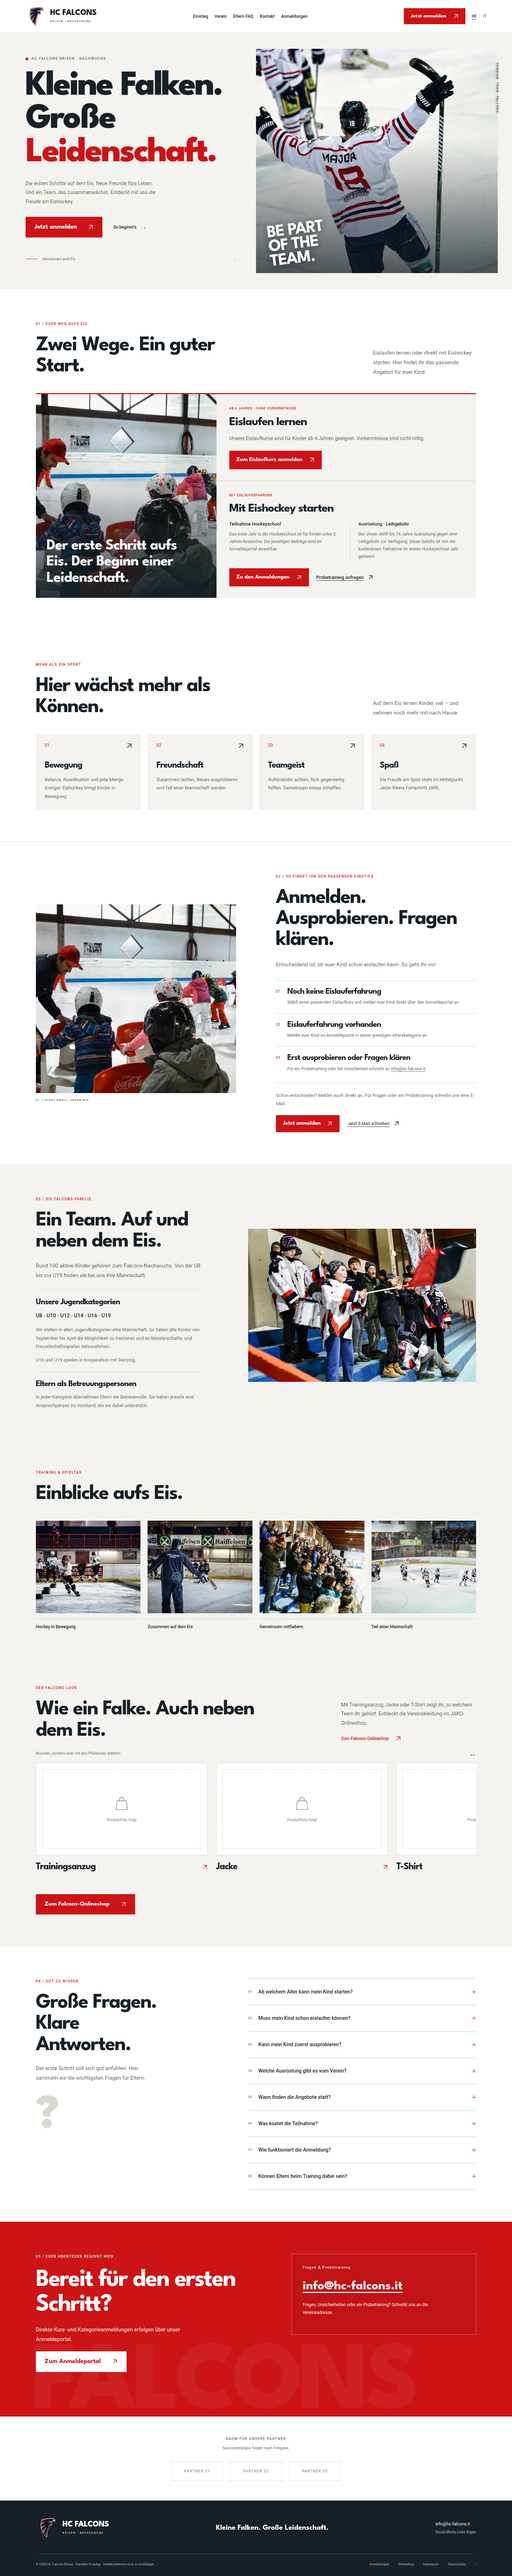
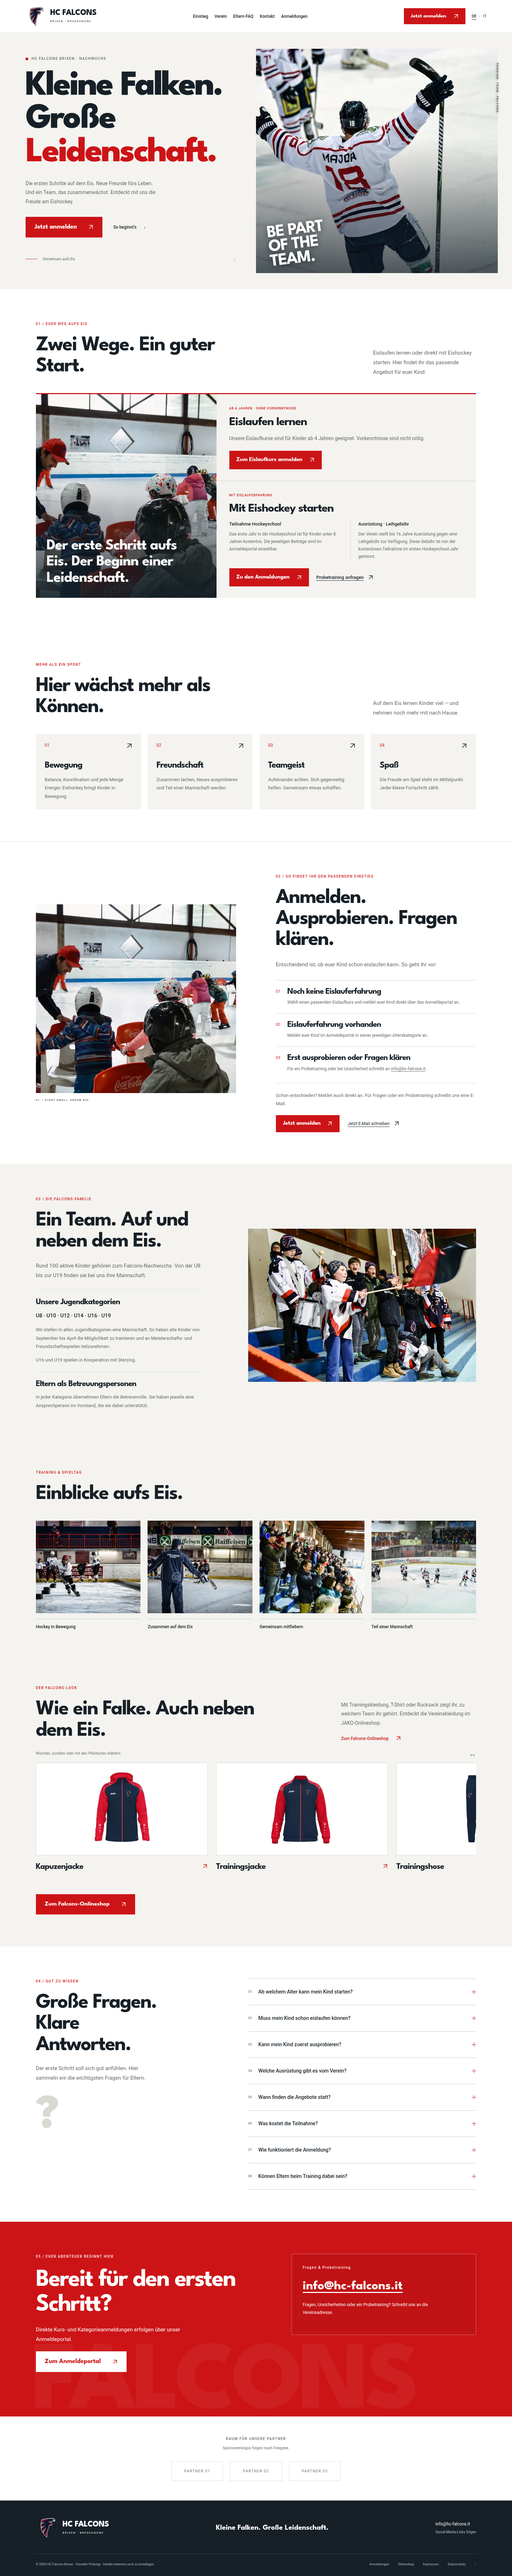
Replace shop placeholders with eleven linked original product photos

Changed region(s): [[0.5312, 0.6872, 0.6562, 0.7185], [0.1875, 0.6872, 0.3125, 0.7185], [0.9062, 0.6872, 0.9375, 0.7185]]

diff --git a/src/components/styles.css b/src/components/styles.css
@@ -37,3 +37,6 @@
 .offer-feature{display:grid;grid-template-columns:minmax(0,.82fr) minmax(0,1.18fr);background:var(--paper);overflow:hidden;border-top:3px solid var(--red)}.offer-feature-visual{position:relative;min-width:0;min-height:100%;isolation:isolate}.offer-feature-photo{position:absolute;inset:0;height:100%;min-height:0}.offer-feature-photo img{object-position:40% center}.offer-feature-visual:after{content:'';position:absolute;inset:40% 0 0;background:linear-gradient(transparent,#142027e6);z-index:1;pointer-events:none}.offer-photo-caption{position:absolute;z-index:2;bottom:32px;left:30px;right:30px;margin:0;color:#fff;font:700 clamp(27px,3vw,42px)/1.08 'League Spartan',sans-serif;letter-spacing:-.025em;max-width:370px}.offer-feature .offer-grid{display:flex;flex-direction:column;gap:0;min-width:0}.offer-feature .offer-card{background:transparent;border:0;padding:32px 36px;min-width:0}.offer-feature .hockey-offer{border-top:1px solid #d1d5ce}.offer-feature .offer-badge{margin-bottom:13px;font-size:9px}.offer-feature .offer-card h3{font-size:34px;margin-bottom:16px}.offer-feature .offer-card>p:not(.offer-badge){margin-bottom:0}.offer-feature .offer-actions{margin-top:22px;gap:20px}.offer-feature .offer-actions .button{padding:16px 20px;font-size:16px}.offer-feature .offer-costs{display:grid;grid-template-columns:1fr 1fr;gap:22px;margin:5px 0 0}.offer-feature .offer-costs>div{border-top:0;padding:0}.offer-feature .offer-costs>div+div{border-left:1px solid #d1d5ce;padding-left:22px}.offer-feature .offer-costs dt{line-height:1.5}.offer-feature .offer-costs dd{font-size:12px;line-height:1.75}
 @media(max-width:1050px){.offer-feature{grid-template-columns:minmax(0,.75fr) minmax(0,1.25fr)}.offer-feature .offer-card{padding:28px}.offer-feature .offer-card h3{font-size:31px}.offer-feature .offer-costs{gap:16px}.offer-feature .offer-costs>div+div{padding-left:16px}}
 @media(max-width:760px){.offer-feature{grid-template-columns:1fr}.offer-feature-visual{min-height:0;height:300px}.offer-feature-photo img{object-position:center 55%}.offer-photo-caption{left:25px;bottom:24px;right:25px;font-size:32px;max-width:300px}.offer-feature .offer-card{padding:28px 24px}.offer-feature .offer-card h3{font-size:32px}.offer-feature .offer-costs{grid-template-columns:1fr;gap:18px}.offer-feature .offer-costs>div+div{border-left:0;border-top:1px solid #d1d5ce;padding:18px 0 0}.offer-feature .offer-actions{gap:22px}.offer-feature .offer-actions .button{font-size:16px;max-width:100%}}
+/* Supplied product photos share one stage; wide white canvases use a centered crop. */
+.shop-product-image>img{width:260px;max-width:100%;height:100%;padding:15px;object-fit:contain}.shop-product-image>img.shop-wide-image{object-fit:cover}.shop-item-caption{align-items:start}.shop-item-caption h3{font-size:24px;line-height:1.15}.shop-item-caption .arrow-icon{margin-top:4px}
+@media(max-width:760px){.shop-product-image>img{width:230px}.shop-item-caption h3{font-size:23px}}

diff --git a/src/data/content.ts b/src/data/content.ts
@@ -5,7 +5,7 @@ export const content = {
     "description": "Eishockey entdecken beim HC Falcons Brixen. Ein Einstieg für Kinder und ihre Familien.",
     "registration": "Anmeldungen",
     "shop": "Onlineshop",
-    "shopText": "Mit Trainingsanzug, Jacke oder T-Shirt zeigt ihr, zu welchem Team ihr gehört. Entdeckt die Vereinskleidung im JAKO-Onlineshop.",
+    "shopText": "Mit Trainingskleidung, T-Shirt oder Rucksack zeigt ihr, zu welchem Team ihr gehört. Entdeckt die Vereinskleidung im JAKO-Onlineshop.",
     "shopAction": "Zum Falcons-Onlineshop",
     "nav": [
       "Einstieg",
@@ -154,13 +154,7 @@ export const content = {
     "entryActionsHint": "Schon entschieden? Meldet euch direkt an. Für Fragen oder ein Probetraining schreibt uns eine E-Mail.",
     "shopLabel": "DER FALCONS-LOOK",
     "shopTitle": "Wie ein Falke. Auch neben dem Eis.",
-    "shopScroll": "Wischen, scrollen oder mit den Pfeiltasten blättern",
-    "shopPhotoPending": "Produktfoto folgt",
-    "shopItems": [
-      "Trainingsanzug",
-      "Jacke",
-      "T-Shirt"
-    ]
+    "shopScroll": "Wischen, scrollen oder mit den Pfeiltasten blättern"
   },
   "it": {
     "lang": "it",
@@ -168,7 +162,7 @@ export const content = {
     "description": "Scoprire l’hockey con HC Falcons Brixen. Un primo passo per bambini e famiglie.",
     "registration": "Iscrizioni",
     "shop": "Shop online",
-    "shopText": "Con tuta, giacca o T-shirt mostrate di quale squadra fate parte. Scoprite l’abbigliamento del club nello shop online JAKO.",
+    "shopText": "Con abbigliamento da allenamento, T-shirt o zaino mostrate di quale squadra fate parte. Scoprite l’abbigliamento del club nello shop online JAKO.",
     "shopAction": "Allo shop online dei Falcons",
     "nav": [
       "Primi passi",
@@ -317,12 +311,6 @@ export const content = {
     "entryActionsHint": "Avete già deciso? Iscrivetevi direttamente. Per domande o un allenamento di prova, scriveteci un’e-mail.",
     "shopLabel": "IL LOOK DEI FALCONS",
     "shopTitle": "Un falco. Anche fuori dal ghiaccio.",
-    "shopScroll": "Scorri con un gesto, il mouse o i tasti freccia",
-    "shopPhotoPending": "Foto prodotto in arrivo",
-    "shopItems": [
-      "Tuta",
-      "Giacca",
-      "T-shirt"
-    ]
+    "shopScroll": "Scorri con un gesto, il mouse o i tasti freccia"
   }
 };

diff --git a/src/data/shop.ts b/src/data/shop.ts
@@ -1,4 +1,27 @@
-import type { ImageMetadata } from 'astro';
-// Use verified images from the Falcons JAKO shop only. No model names or prices
-// are inferred. Replace null with a local image import once images are available.
-export const shopImages: (ImageMetadata | null)[] = [null, null, null];
+import jacket from '../../Jacke.png';
+import trainingJacket from '../../Trainerjacke.png';
+import trousers from '../../Trainerhose.png';
+import trousersDetail from '../../Screenshot 2026-09-09 073638.png';
+import backpack from '../../Rucksack.png';
+import trainingShirt from '../../T-shirt.png';
+import shirtNavy from '../../T-shirt 2.png';
+import shirtGrey from '../../T-shirt 3.png';
+import shirtWhite from '../../T-shirt 4.png';
+import shirtGreyShield from '../../T-shirt 5.png';
+import shirtWhiteShield from '../../T-shirt 6.png';
+
+// User-supplied product photos. All previews link to the confirmed Falcons shop.
+// Labels describe the images; no model names, prices or availability are inferred.
+export const shopProducts = [
+ { image: jacket, de: 'Kapuzenjacke', it: 'Giacca con cappuccio' },
+ { image: trainingJacket, de: 'Trainingsjacke', it: 'Giacca da allenamento' },
+ { image: trousers, de: 'Trainingshose', it: 'Pantaloni da allenamento' },
+ { image: trousersDetail, de: 'Trainingshose · Detailansicht', it: 'Pantaloni da allenamento · Dettaglio' },
+ { image: backpack, de: 'Rucksack', it: 'Zaino' },
+ { image: trainingShirt, de: 'Trainingsshirt', it: 'Maglia da allenamento' },
+ { image: shirtNavy, de: 'T-Shirt · Dunkelblau', it: 'T-shirt · Blu scuro' },
+ { image: shirtGrey, de: 'T-Shirt · Grau', it: 'T-shirt · Grigia' },
+ { image: shirtWhite, de: 'T-Shirt · Weiß', it: 'T-shirt · Bianca' },
+ { image: shirtGreyShield, de: 'T-Shirt · Grau mit Wappenmotiv', it: 'T-shirt · Grigia con stemma' },
+ { image: shirtWhiteShield, de: 'T-Shirt · Weiß mit Wappenmotiv', it: 'T-shirt · Bianca con stemma' },
+];

diff --git a/README.md b/README.md
@@ -54,9 +54,9 @@ Kostenhinweise sind bewusst getrennt: erstes Hockeyschool-Jahr für Kinder unter
 
 Unter dem praktischen Einstiegsleitfaden stehen genau zwei gemeinsame Aktionen: Anmeldung im Registrix-Portal und E-Mail an den Verein. Die einzelnen Schritte haben keine eigenen Buttons mehr. Der gesonderte Abgrenzungssatz zur Elternbetreuung ist entfernt.
 
-`src/components/Shop.astro` zeigt einen nativen, per Touch, Trackpad und Tastatur bedienbaren Scroll-Snap-Slider mit Shoplink. Kein Autoplay und kein zusätzliches Browser-JavaScript. Die genannten Kategorien Trainingsanzug, Jacke und T-Shirt stammen vom Nutzer; konkrete Modelle, Preise oder Verfügbarkeiten wurden nicht ergänzt.
+`src/components/Shop.astro` zeigt direkt unter „Einblicke aufs Eis“ einen nativen, per Touch, Trackpad und Tastatur bedienbaren Scroll-Snap-Slider. Kein Autoplay und kein zusätzliches Browser-JavaScript. Alle elf vom Nutzer hochgeladenen Produktbilder werden über `src/data/shop.ts` eingebunden und von Astro als WebP optimiert. Jedes Bild und seine deutsche beziehungsweise italienische Beschriftung führen zum bestätigten JAKO-Falcons-Shop. Die Originale bleiben unverändert. Preise, Modellnamen oder Verfügbarkeiten wurden nicht erfunden.
 
-**Noch offen: echte Produktfotos.** Der Abruf von `https://team.jako.com/de-de/team/falcons/` wird durch den Netzwerkproxy dieser Cloud-Umgebung mit HTTP 403 beim CONNECT blockiert. Die Netzwerkfreigabe für `team.jako.com` wurde als Konfigurationsentwurf gespeichert; dies aktiviert den Zugriff noch nicht. Nach Freigabe ggf. zusätzlich die vom Shop tatsächlich verwendeten Bilddomains prüfen. Alternativ freigegebene Produktbilder im Repository hochladen. Anschließend in `src/data/shop.ts` importieren und die drei `null`-Einträge ersetzen. Bis dahin werden klar beschriftete Fotoplatzhalter gezeigt. Keine Produktbilder wurden erfunden oder aus anderen Shops übernommen.
+Die Produktbilder sind nun lokal vorhanden; ein Abruf des Shops zur Laufzeit ist nicht nötig. Die bisherigen Fotoplatzhalter sind entfernt.
 
 ## Gemeinsamer Angebotsblock
 
